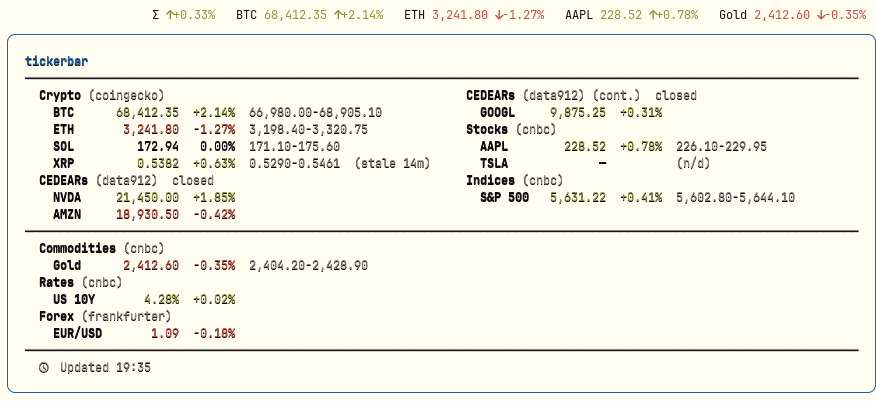
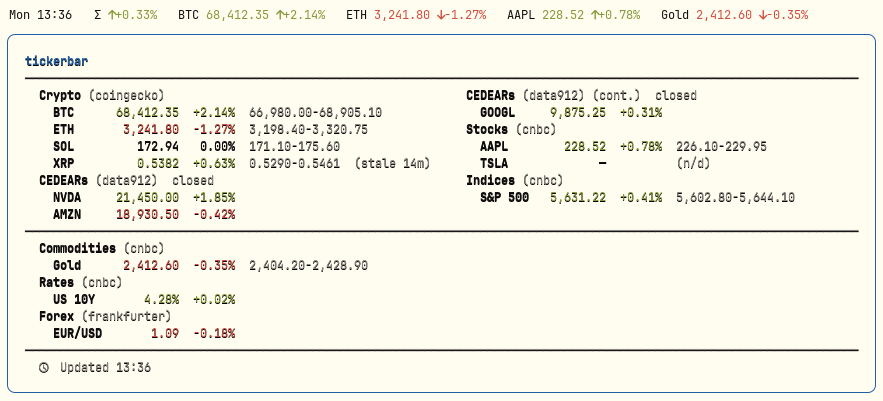
Retake every screenshot
The old ones predate the design pass and show what the widget no longer
does: the stepped bar colour, the pace arrow glued to the percentage,
"Sonnet only", the framed tooltip, and the rules stretched by the locale
bug. Keeping them would have documented a version that no longer exists.

They come from a real render, not from a composite: a headless sway with
its own Wayland socket, its own HOME and its own copy of the Omarchy
shell, the demo fixture on PATH, and a virtual-pointer client that holds
the hover open while grim fires — waybar's tooltip never appears
otherwise, because a compositor with no input devices answers "success"
to a cursor warp without generating one.

The desktop shots are native 1920x1080, no resampling: downscaling to
1440 softened the bar and panel text, which is the thing the image is
there to show. They use DIFFERENT wallpapers on purpose — the two shots
deliberately show the same data, and sharing the wallpaper too made them
read as one photo printed twice instead of as two frontends.

The bar carries the layout Omarchy ships, and the widget always sits in
the same place — right of the clock — so the fourteen images can be
compared without hunting for it.

Every `width=` is capped at the image's natural width. A width above it
stretches the capture and the text goes soft.

diff --git a/README.md b/README.md
@@ -71,7 +71,7 @@ make install PREFIX=~/.local
 To install for all users, run `sudo make install`.
 
 <p align="center">
-  <img src="screenshots/waybar-bar.png" alt="tickerbar in Waybar" width="800">
+  <img src="screenshots/waybar-bar.png" alt="tickerbar in Waybar" width="726">
 </p>
 
 <p align="center">
